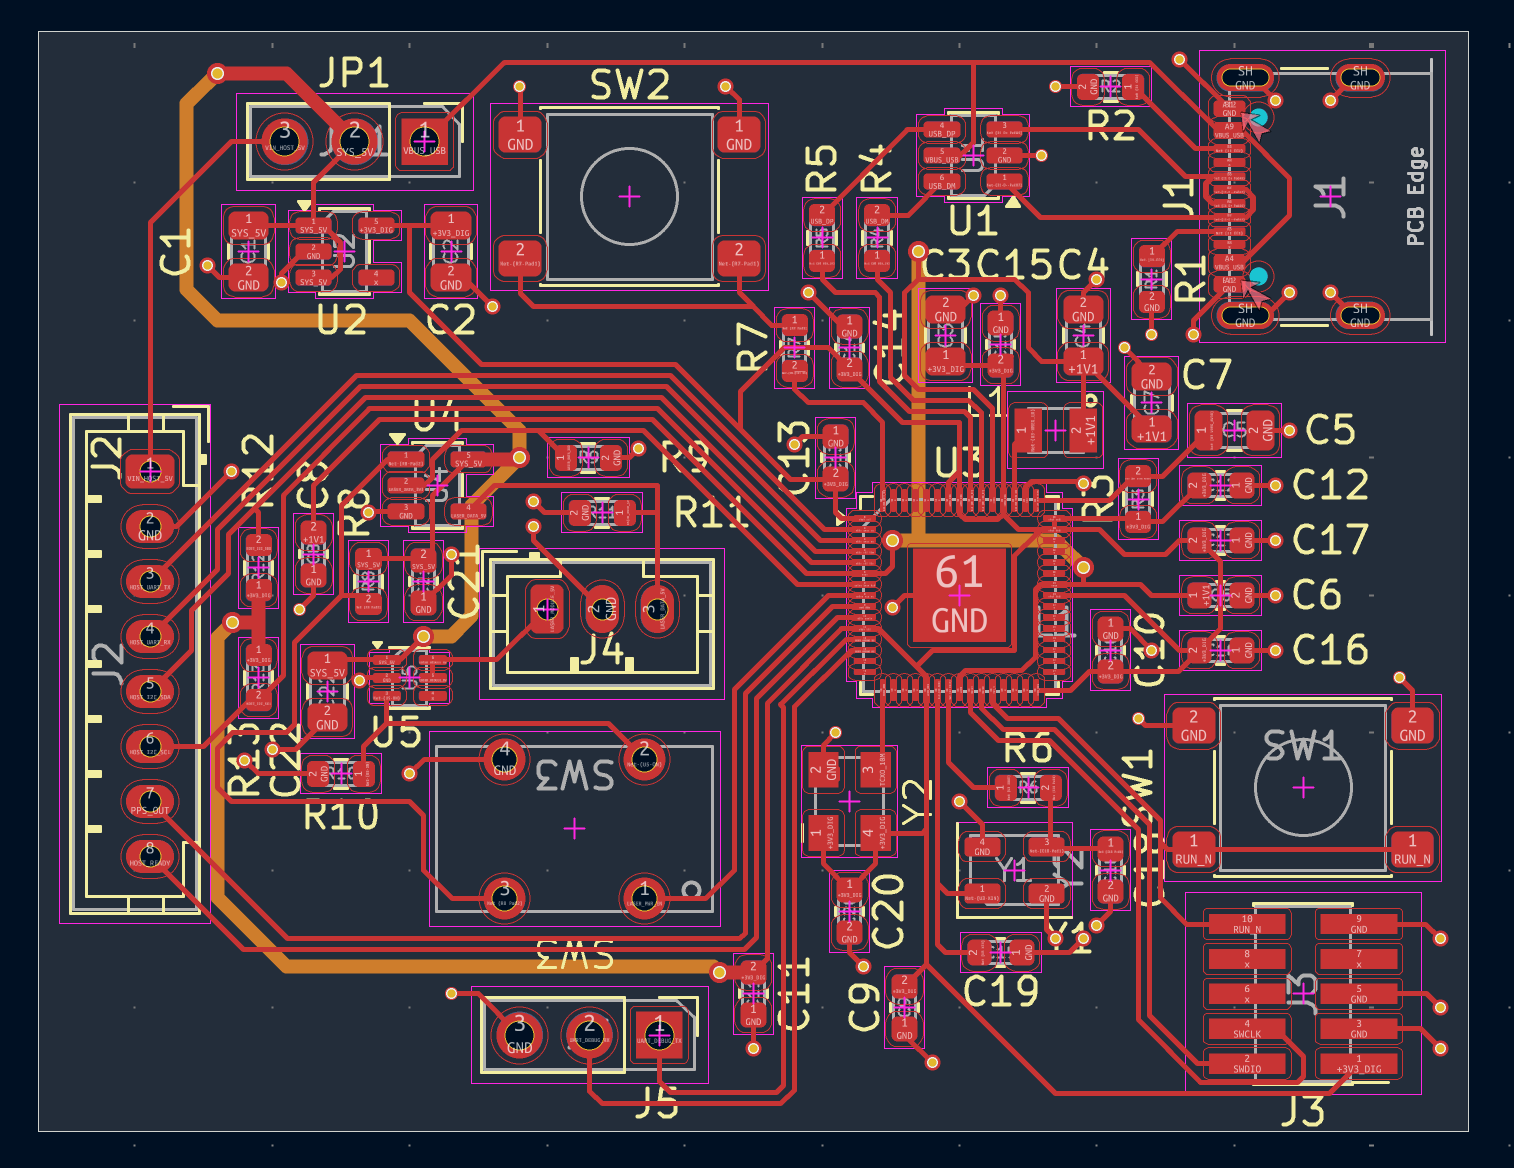
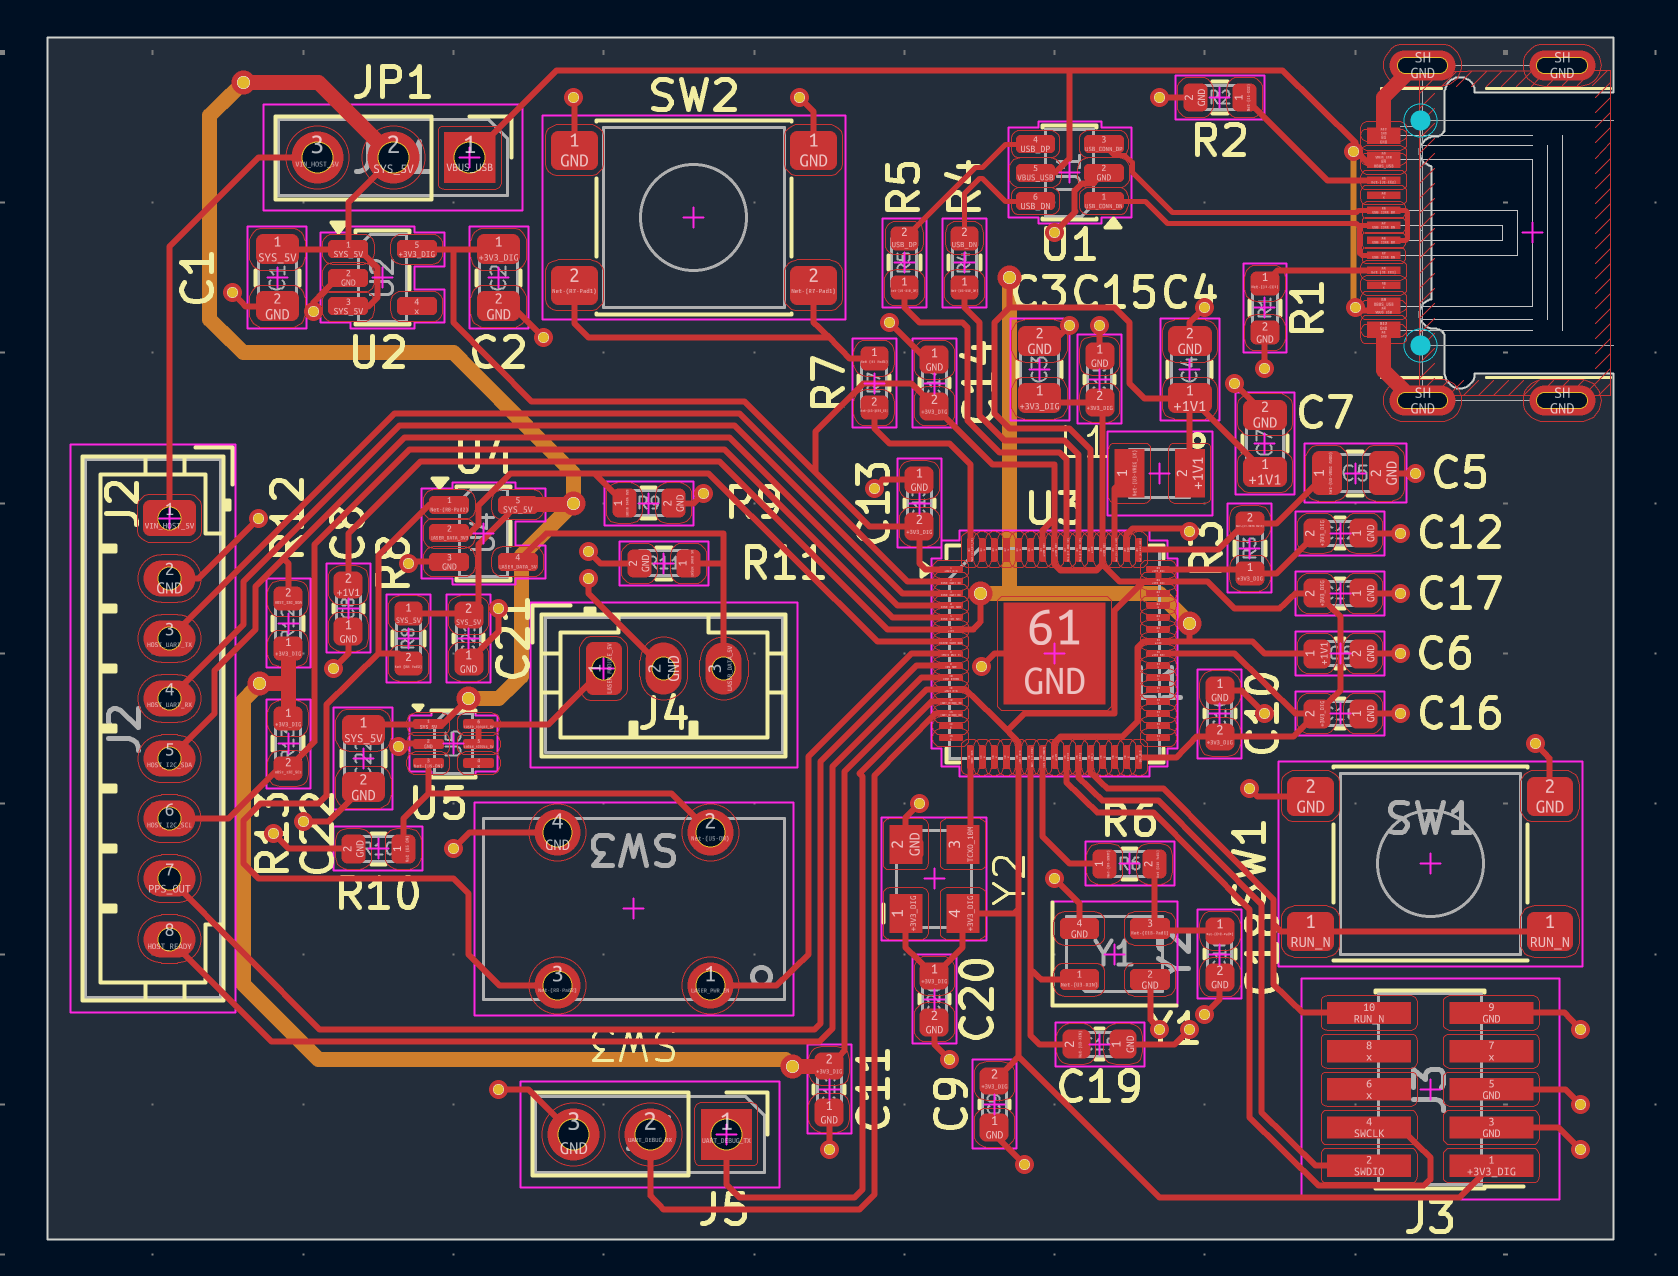
Images and README updates

diff --git a/README.md b/README.md
@@ -109,6 +109,7 @@ Verificated: Symbol and Footprint compatibility:
 8. B8B-PH-K-S ✓
 9. ARD-LASER-MDI650-1-5 ✓
 10. FTSH-105-01-L-DV-K  ✓
+11. TYPE-C-31-M-14  ✓
 
 ### TX schamtics:
 
@@ -116,16 +117,10 @@ Verificated: Symbol and Footprint compatibility:
 
 ### TX PCB: 
 
-**status:** PCB is almost done (details below)
+**Status:** PCB is Done
 
 <img src="images/TX-PCB-design.png" alt="pcb design" width="315" /><img src="images/TX-PCB.png" alt="pcb" width="335" />
 
-**Errors:** 4 Hole clearance violation:
-USB 2.0 (GCT USB4105 model) connector’s A1/A12/B1/B12 GND copper pads are 0.1944 mm from one of J1’s non-plated through holes locating holes, while our board-wide hole-clearance is set to 0.25 mm. 
-
-Two options to fix: 
-1. If the PCB manufacturer can deal with 0.1944mm then the board setup can be changed (need approval)
-2. To change the USB model to a one that has a 0.25mm between non-plated through holes and copper pads
 
 ## System Uses:
 
